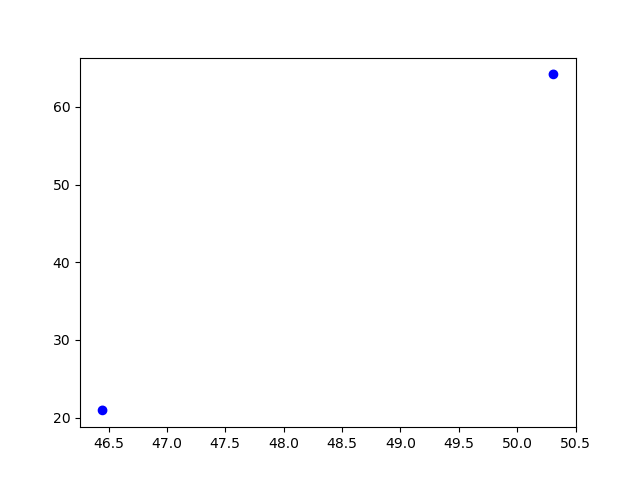
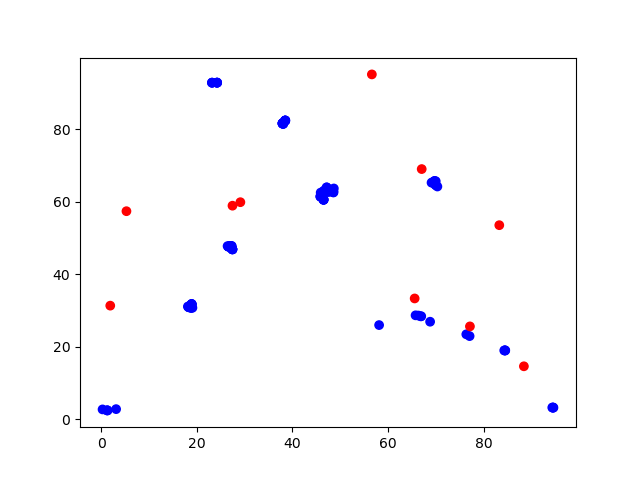
some runs

diff --git a/run.py b/run.py
@@ -5,10 +5,10 @@ import numpy as np
 from step_update import *
 from anim_func import *
 
-xbounds = (0.0,100.0)
-ybounds = (0.,100.)
+xbounds = (0.0,10.0)
+ybounds = (0.,10.)
 
-param_dict = create_parameter_dict(n_H=2, n_Z=0,timestep=.08, n_steps=100, bite_r_Z_H = 0.002, 
+param_dict = create_parameter_dict(n_H=10, n_Z=10,timestep=.08, n_steps=100, bite_r_Z_H = 0.002, 
                                    x_bounds=np.array(xbounds), y_bounds=np.array(ybounds))
 
 entities = Initialize_entities(param_dict)
